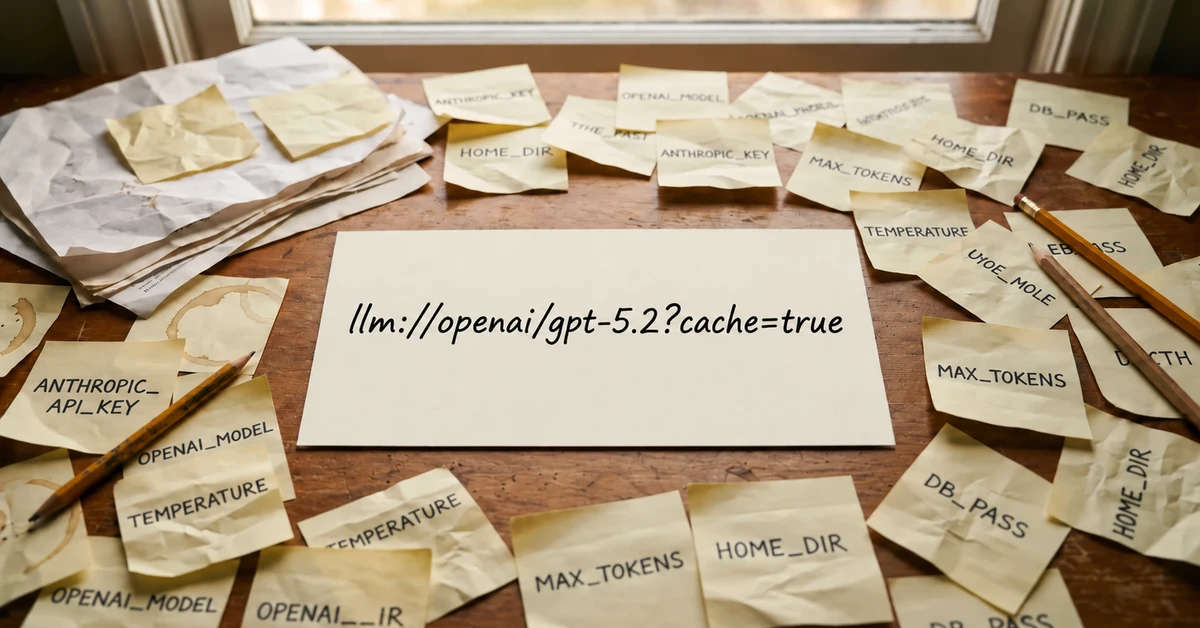
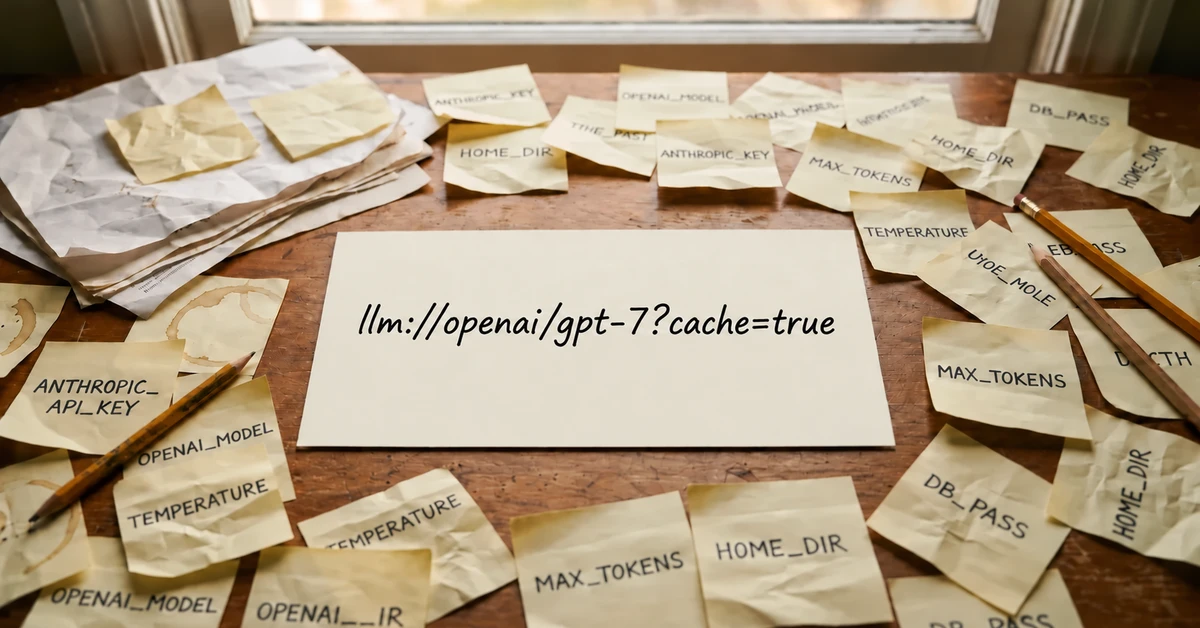
Update connection string artwork to gpt-7 on one line

diff --git a/src/scripts/hero-formats.ts b/src/scripts/hero-formats.ts
@@ -10,7 +10,7 @@ const root = process.cwd();
 const postsRoot = resolve(root, "src/content/posts");
 const write = process.argv.includes("--write");
 const sourceOverrides: Record<string, string> = {
-  // Corrected composition retains llm://openai/gpt-5.2?cache=true on one line.
+  // Corrected composition retains llm://openai/gpt-7?cache=true on one line.
   "2026-01-30--llm-connection-strings": "square-fullsize.webp",
   "2026-01-26--securing-clawdbot-tailscale": "hero-full.webp",
   "2024-08-29--handling-international-numbers-and-currency": "currency-banner-pic.webp",

diff --git a/output/imagegen/llm-connection-string-fix/prompts.md b/output/imagegen/llm-connection-string-fix/prompts.md
@@ -19,3 +19,15 @@ Final files live beside `src/content/posts/2026-01-30--llm-connection-strings/in
 Final exact text: `llm://openai/gpt-5.2?cache=true`, on one line.
 
 Applied separately to the square and landscape photographs with built-in imagegen: Edit the central card's handwriting. Replace the current two lines with this EXACT text ON ONE SINGLE LINE: `llm://openai/gpt-5.2?cache=true`. No line break or wrapping. Use exactly the short provider name `openai`, model `gpt-5.2`, scheme `llm://` with two slashes, and query `?cache=true`. Center the entire single line on the card, adjust size for comfortable padding and clear readability. Preserve all desk objects, note positions, card, lighting, palette, photographic style and original framing. The central card contains no other text.
+
+## GPT-7 Astra, superseded user correction
+
+Final exact text: `llm://openai/gpt-7-astra?cache=true`, on one line.
+
+Applied separately to the square and landscape photographs with built-in imagegen: Edit ONLY the handwriting on the central card. Put the entire exact replacement string on ONE SINGLE unbroken LINE, no wrapping. Two forward slashes after `llm:`, provider `openai`, model `gpt-7-astra`, query `?cache=true`. Adjust lettering size minimally if needed so all characters fit within the card with comfortable padding. Preserve the card, composition, all other objects, desk, notes, lighting, colors, handwriting style and original framing. No other text on the central card and no extra punctuation.
+
+## GPT-7, final user correction
+
+Final exact text: `llm://openai/gpt-7?cache=true`, on one line.
+
+Applied separately to the square and landscape photographs with built-in imagegen: Edit ONLY the handwriting on the central card. Put the entire exact replacement string on ONE SINGLE unbroken LINE, no wrapping. Two forward slashes after `llm:`, provider `openai`, model `gpt-7`, query `?cache=true`. Center the lettering on the card with comfortable padding. Preserve the card, composition, all other objects, desk, notes, lighting, colors, handwriting style and original framing. No other text on the central card and no extra punctuation. Astra generations were superseded and were not installed.
